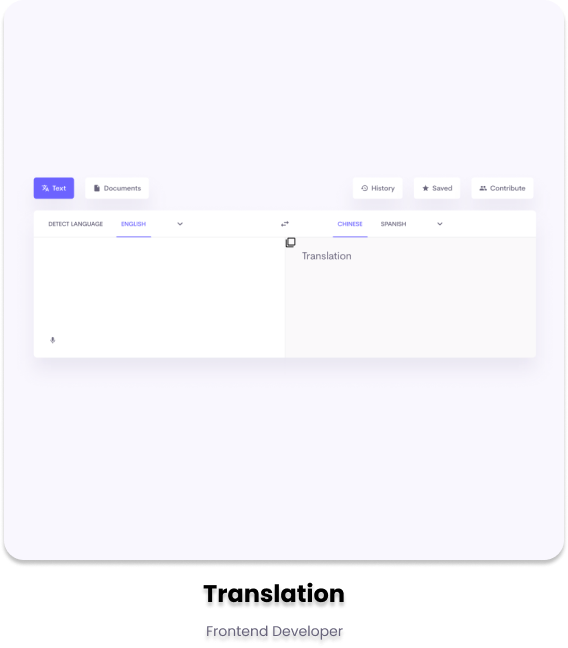
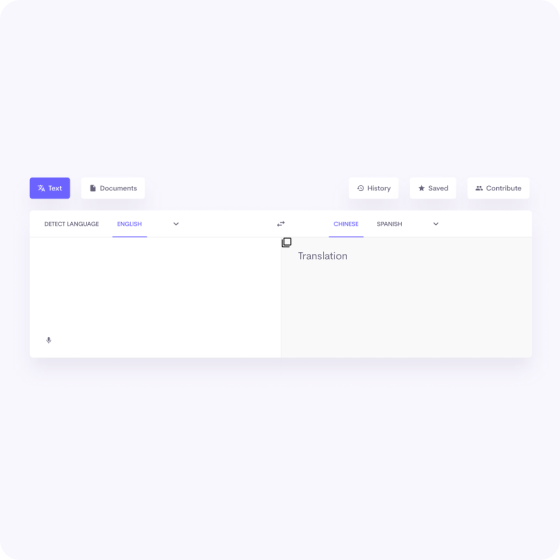
Added translation image

diff --git a/work.html b/work.html
@@ -38,18 +38,18 @@
             <p class="text-center text-muted">Built with HTML and CSS</p>
           </div>
           <div class="col-6">
-            <img src="images/Yoghurt.png" class="img-fluid mb-3" alt="" />
-            <h3 class="text-center m-0">Yogurt Project</h3>
+            <img src="images/Weather.png" class="img-fluid mb-3" alt="" />
+            <h3 class="text-center m-0">Weather App</h3>
             <p class="text-center text-muted">Built with HTML and CSS</p>
           </div>
           <div class="col-6">
-            <img src="images/Yoghurt.png" class="img-fluid mb-3" alt="" />
-            <h3 class="text-center m-0">Yogurt Project</h3>
+            <img src="images/Dictionary.png" class="img-fluid mb-3" alt="" />
+            <h3 class="text-center m-0">Dictionary</h3>
             <p class="text-center text-muted">Built with HTML and CSS</p>
           </div>
           <div class="col-6">
-            <img src="images/Yoghurt.png" class="img-fluid mb-3" alt="" />
-            <h3 class="text-center m-0">Yogurt Project</h3>
+            <img src="images/Translation.png" class="img-fluid mb-3" alt="" />
+            <h3 class="text-center m-0">Translation</h3>
             <p class="text-center text-muted">Built with HTML and CSS</p>
           </div>
         </div>
